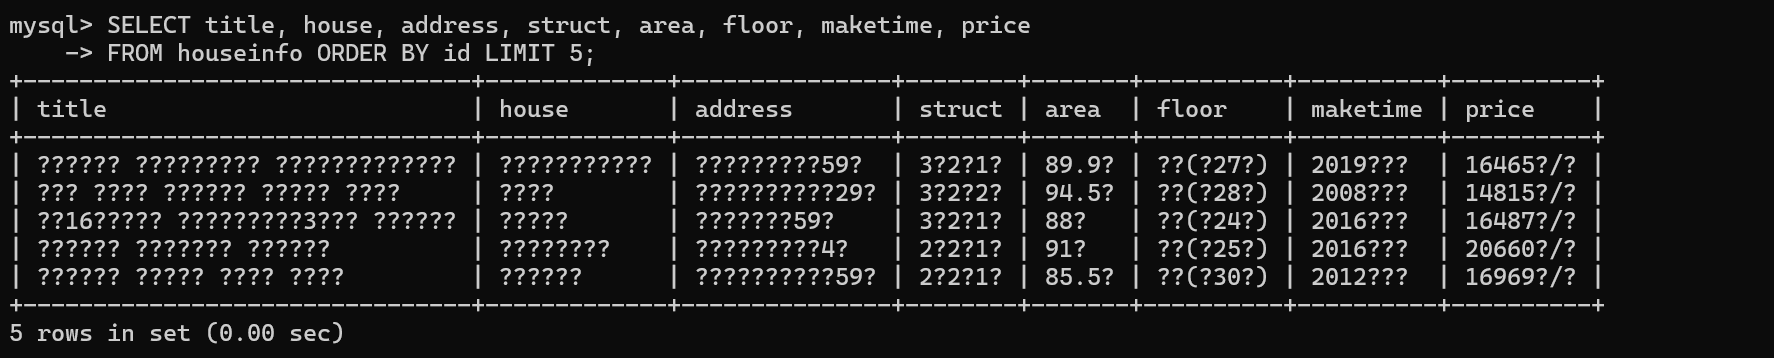
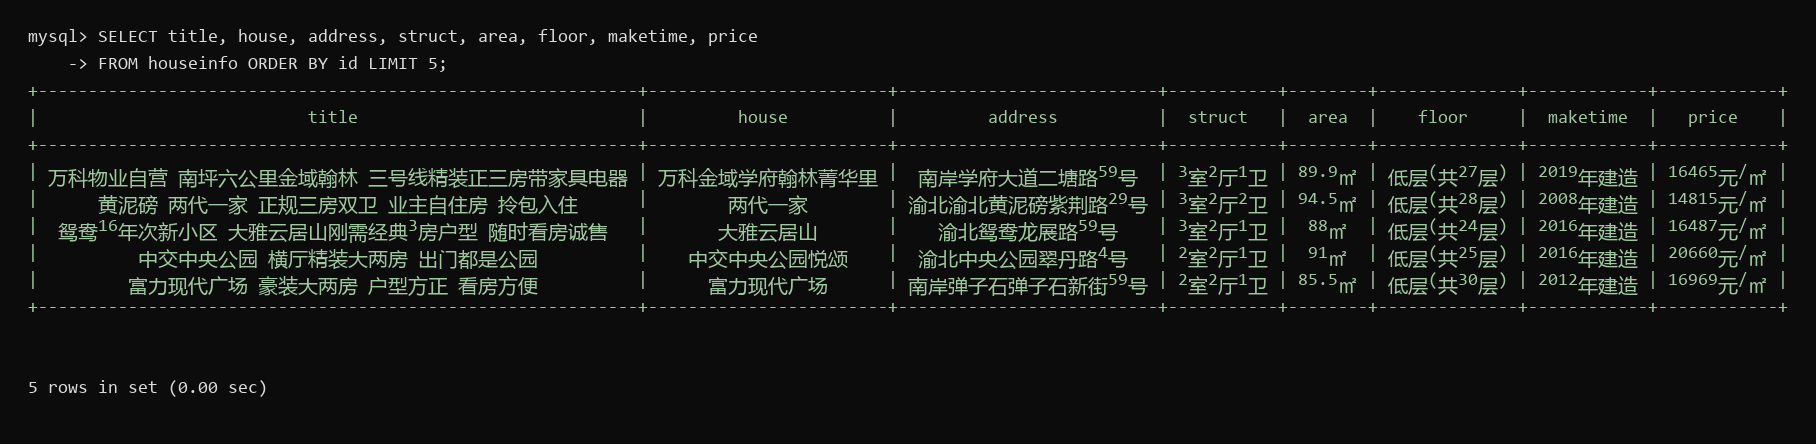
图8重制：MySQL 终端改用 utf8mb4 连接，中文正常显示

diff --git a/lab02/REPORT.md b/lab02/REPORT.md
@@ -121,7 +121,7 @@
 
 ![MySQL 终端查询入库结果](images/08-mysql-verify.png)
 
-**图 8** 在 MySQL 终端执行 `SELECT title, house, address, struct, area, floor, maketime, price FROM houseinfo ORDER BY id LIMIT 5;` 的结果，`5 rows in set` 确认数据已入库。终端默认字符集下中文显示为 `?`（数值与单位仍可辨认，如 `89.9?` 即 `89.9㎡`、`16465?/?` 即 `16465元/㎡`），属于终端显示问题；改用 `--default-character-set=utf8mb4` 连接后中文正常显示（见图 9 的逐字段核对）。
+**图 8** 在 MySQL 终端执行 `SELECT title, house, address, struct, area, floor, maketime, price FROM houseinfo ORDER BY id LIMIT 5;` 的结果。连接客户端时使用 `--default-character-set=utf8mb4` 指定字符集（与建表时的 `utf8mb4` 一致），中文标题、楼盘、地址以及 `㎡` 单位全部正常显示，无乱码；`5 rows in set` 确认数据已入库。同时执行了 `SELECT COUNT(*) FROM houseinfo`，结果 `after_count` 为 498，与 CSV 数据行数一致。
 
 | 项目                         | 实际结果            |
 | -------------------------- | --------------- |
